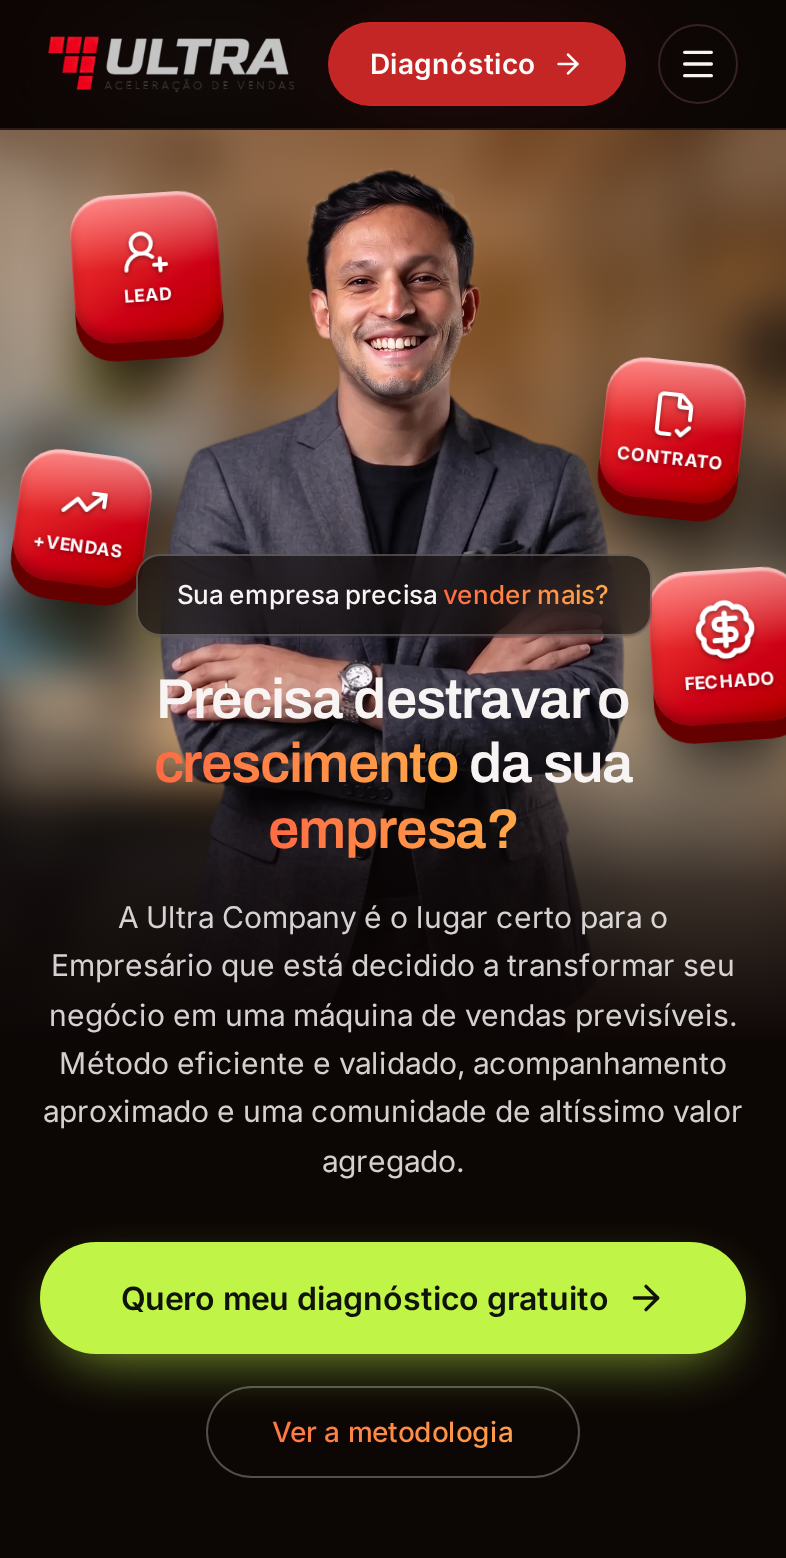
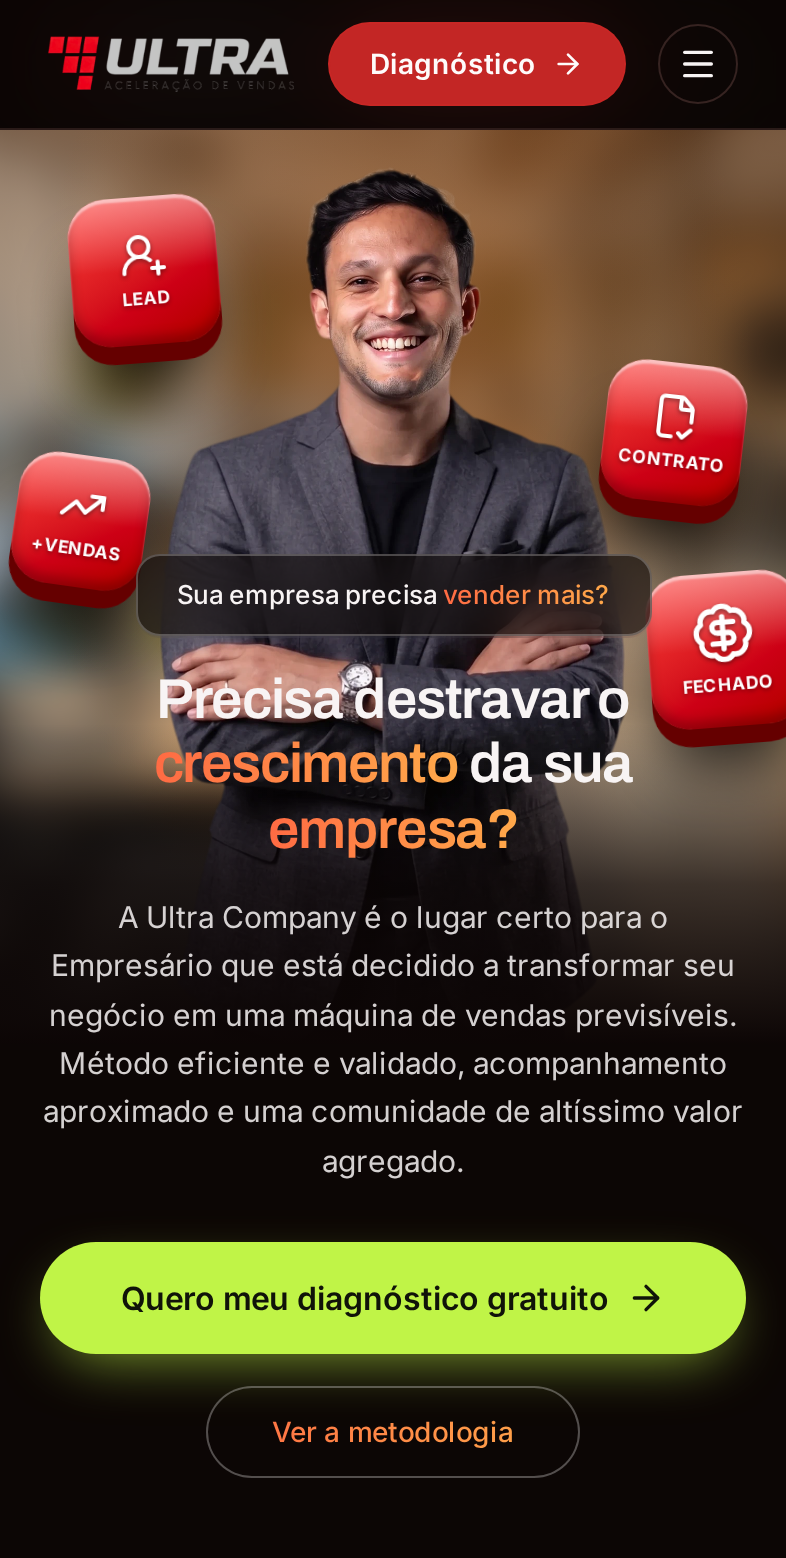
Changes

diff --git a/src/routes/index.tsx b/src/routes/index.tsx
@@ -99,7 +99,7 @@ function Home() {
               <FileCheck2 className="size-6" aria-hidden="true" />
               <span>CONTRATO</span>
             </div>
-            <div className="hero-tile hero-float-lead absolute -right-1 top-[50%] size-[4.8rem]">
+            <div className="hero-tile hero-float-lead absolute -right-1 size-[4.6rem]" style={{ top: "40%" }}>
               <BadgeDollarSign className="size-8" aria-hidden="true" />
               <span>FECHADO</span>
             </div>
